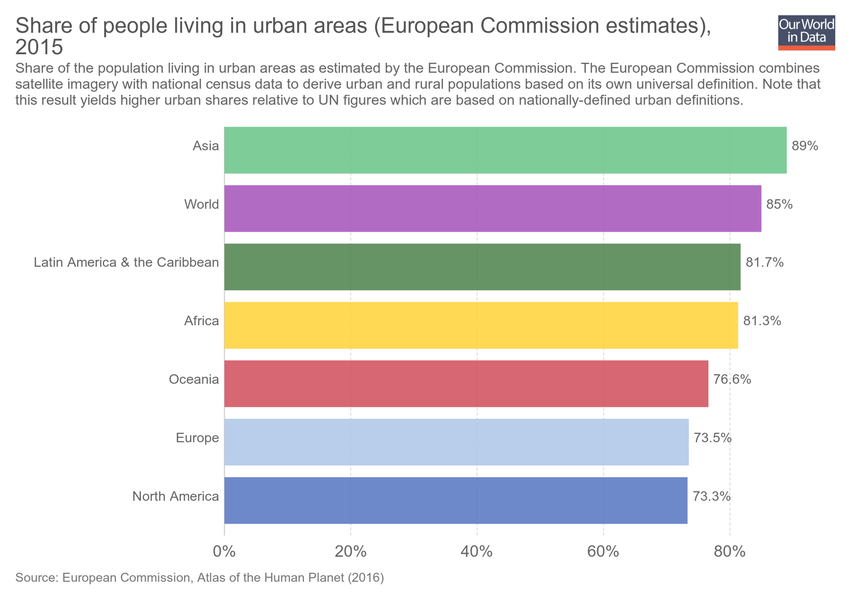
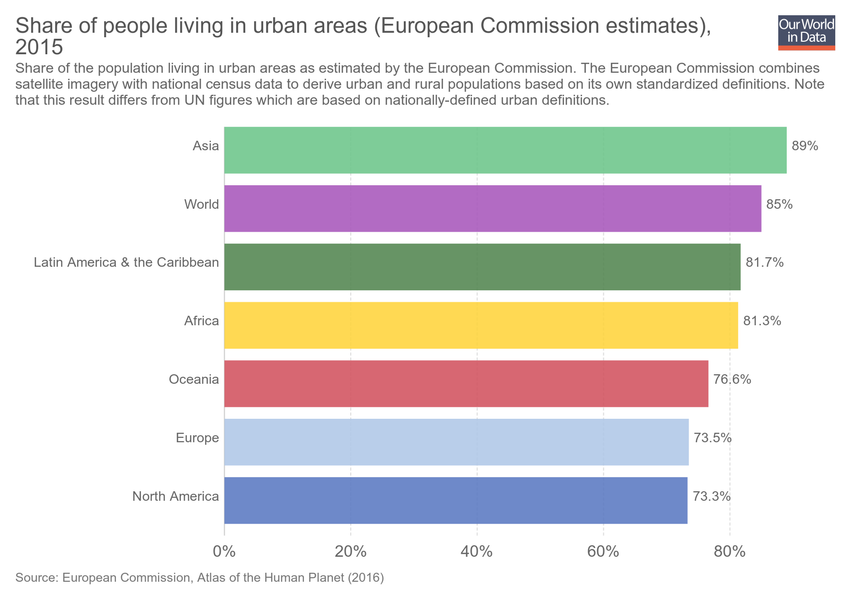
Updating chart urban-share-european-commission

Changed region(s): [[0.0306, 0.12, 0.9788, 0.18]]

diff --git a/grapher/urban-share-european-commission.html b/grapher/urban-share-european-commission.html
@@ -1,4 +1,4 @@
-<!doctype html><html><head><meta name="viewport" content="width=device-width, initial-scale=1" /><title>Share of people living in urban areas (European Commission estimates) - Our World in Data</title><meta name="description" content="Share of the population living in urban areas as estimated by the European Commission. The European Commission combines satellite imagery with national census data to derive urban and rural populations based on its own universal definition. Note that this result yields higher urban shares relative to UN figures which are based on nationally-defined urban definitions." /><link rel="canonical" href="https://ourworldindata.org/grapher/urban-share-european-commission" /><meta property="fb:app_id" content="1149943818390250" /><meta property="og:url" content="https://ourworldindata.org/grapher/urban-share-european-commission" /><meta property="og:title" content="Share of people living in urban areas (European Commission estimates)" /><meta property="og:description" content="Share of the population living in urban areas as estimated by the European Commission. The European Commission combines satellite imagery with national census data to derive urban and rural populations based on its own universal definition. Note that this result yields higher urban shares relative to UN figures which are based on nationally-defined urban definitions." /><meta property="og:image" content="https://ourworldindata.org/grapher/exports/urban-share-european-commission.png?v=1" /><meta property="og:image:width" content="850" /><meta property="og:image:height" content="600" /><meta property="og:site_name" content="Our World in Data" /><meta name="twitter:card" content="summary_large_image" /><meta name="twitter:site" content="@OurWorldInData" /><meta name="twitter:creator" content="@OurWorldInData" /><meta name="twitter:title" content="Share of people living in urban areas (European Commission estimates)" /><meta name="twitter:description" content="Share of the population living in urban areas as estimated by the European Commission. The European Commission combines satellite imagery with national census data to derive urban and rural populations based on its own universal definition. Note that this result yields higher urban shares relative to UN figures which are based on nationally-defined urban definitions." /><meta name="twitter:image" content="https://ourworldindata.org/grapher/exports/urban-share-european-commission.png?v=1" /><style>
+<!doctype html><html><head><meta name="viewport" content="width=device-width, initial-scale=1" /><title>Share of people living in urban areas (European Commission estimates) - Our World in Data</title><meta name="description" content="Share of the population living in urban areas as estimated by the European Commission. The European Commission combines satellite imagery with national census data to derive urban and rural populations based on its own standardized definitions. Note that this result differs from UN figures which are based on nationally-defined urban definitions." /><link rel="canonical" href="https://ourworldindata.org/grapher/urban-share-european-commission" /><meta property="fb:app_id" content="1149943818390250" /><meta property="og:url" content="https://ourworldindata.org/grapher/urban-share-european-commission" /><meta property="og:title" content="Share of people living in urban areas (European Commission estimates)" /><meta property="og:description" content="Share of the population living in urban areas as estimated by the European Commission. The European Commission combines satellite imagery with national census data to derive urban and rural populations based on its own standardized definitions. Note that this result differs from UN figures which are based on nationally-defined urban definitions." /><meta property="og:image" content="https://ourworldindata.org/grapher/exports/urban-share-european-commission.png?v=3" /><meta property="og:image:width" content="850" /><meta property="og:image:height" content="600" /><meta property="og:site_name" content="Our World in Data" /><meta name="twitter:card" content="summary_large_image" /><meta name="twitter:site" content="@OurWorldInData" /><meta name="twitter:creator" content="@OurWorldInData" /><meta name="twitter:title" content="Share of people living in urban areas (European Commission estimates)" /><meta name="twitter:description" content="Share of the population living in urban areas as estimated by the European Commission. The European Commission combines satellite imagery with national census data to derive urban and rural populations based on its own standardized definitions. Note that this result differs from UN figures which are based on nationally-defined urban definitions." /><meta name="twitter:image" content="https://ourworldindata.org/grapher/exports/urban-share-european-commission.png?v=3" /><style>
         html, body {
             height: 100%;
             margin: 0;
@@ -20,8 +20,8 @@
         }
     </style><noscript><style>
                     figure { display: none !important; }
-                </style></noscript><link rel="stylesheet" href="https://ourworldindata.org/grapher/assets/commons.bundle.aac21d725a915c387ab8.css" /><link rel="preload" href="/grapher/data/variables/97906.json?v=1" as="fetch" crossorigin /></head><body class="singleChart"><figure data-grapher-src="/grapher/urban-share-european-commission"></figure><noscript id="fallback"><img src="/grapher/exports/urban-share-european-commission.svg" /><p>Interactive visualization requires JavaScript</p></noscript><script src="https://cdn.polyfill.io/v2/polyfill.min.js?features=es6,fetch"></script><script src="https://ourworldindata.org/grapher/assets/commons.bundle.aac21d725a915c387ab8.js"></script><script src="https://ourworldindata.org/grapher/assets/charts.bundle.aac21d725a915c387ab8.js"></script><script>
-        var jsonConfig = {"map":{"projection":"World","colorSchemeLabels":[],"colorSchemeValues":[],"customNumericColors":[],"customCategoryColors":{},"customCategoryLabels":{},"customHiddenCategories":{}},"tab":"chart","slug":"urban-share-european-commission","type":"DiscreteBar","title":"Share of people living in urban areas (European Commission estimates)","xAxis":{"scaleType":"linear"},"yAxis":{"min":0,"scaleType":"linear"},"version":1,"subtitle":"Share of the population living in urban areas as estimated by the European Commission. The European Commission combines satellite imagery with national census data to derive urban and rural populations based on its own universal definition. Note that this result yields higher urban shares relative to UN figures which are based on nationally-defined urban definitions.","hasMapTab":false,"stackMode":"absolute","dimensions":[{"display":{},"property":"y","variableId":97906}],"sourceDesc":"European Commission, Atlas of the Human Planet (2016)","hasChartTab":true,"isPublished":true,"selectedData":[{"index":0,"entityId":273},{"index":0,"entityId":275},{"index":0,"entityId":276},{"index":0,"entityId":33415},{"index":0,"entityId":294},{"index":0,"entityId":277},{"index":0,"entityId":355}],"addCountryMode":"disabled","baseColorScheme":"continents","id":2997};
+                </style></noscript><link rel="stylesheet" href="https://ourworldindata.org/grapher/assets/commons.bundle.aac21d725a915c387ab8.css" /><link rel="preload" href="/grapher/data/variables/97906.json?v=3" as="fetch" crossorigin /></head><body class="singleChart"><figure data-grapher-src="/grapher/urban-share-european-commission"></figure><noscript id="fallback"><img src="/grapher/exports/urban-share-european-commission.svg" /><p>Interactive visualization requires JavaScript</p></noscript><script src="https://cdn.polyfill.io/v2/polyfill.min.js?features=es6,fetch"></script><script src="https://ourworldindata.org/grapher/assets/commons.bundle.aac21d725a915c387ab8.js"></script><script src="https://ourworldindata.org/grapher/assets/charts.bundle.aac21d725a915c387ab8.js"></script><script>
+        var jsonConfig = {"id":2997,"map":{"projection":"World","colorSchemeLabels":[],"colorSchemeValues":[],"customNumericColors":[],"customCategoryColors":{},"customCategoryLabels":{},"customHiddenCategories":{}},"tab":"chart","slug":"urban-share-european-commission","type":"DiscreteBar","title":"Share of people living in urban areas (European Commission estimates)","xAxis":{"scaleType":"linear"},"yAxis":{"min":0,"scaleType":"linear"},"version":3,"subtitle":"Share of the population living in urban areas as estimated by the European Commission. The European Commission combines satellite imagery with national census data to derive urban and rural populations based on its own standardized definitions. Note that this result differs from UN figures which are based on nationally-defined urban definitions.","hasMapTab":false,"stackMode":"absolute","dimensions":[{"display":{},"property":"y","variableId":97906}],"sourceDesc":"European Commission, Atlas of the Human Planet (2016)","hasChartTab":true,"isPublished":true,"selectedData":[{"index":0,"entityId":273},{"index":0,"entityId":275},{"index":0,"entityId":276},{"index":0,"entityId":33415},{"index":0,"entityId":294},{"index":0,"entityId":277},{"index":0,"entityId":355}],"addCountryMode":"disabled","baseColorScheme":"continents"};
         var figure = document.getElementsByTagName("figure")[0];
         try {
             window.App = {};
